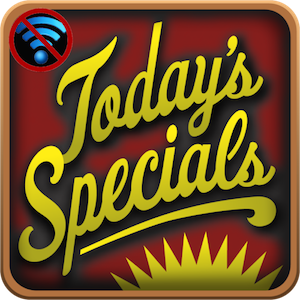
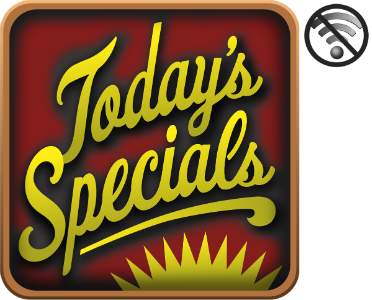
recent round of changes for production

diff --git a/public/js/_views.js b/public/js/_views.js
@@ -84,7 +84,9 @@ $(function() {
 					if(toType(loader) != 'undefined') {
 						loader.destroy();
 					}
-					$('#settings-button img').attr('src','/img/TSA_Icon.png');
+					// Set the icon indicator
+					$('#settings-button').show();
+					$("#settings-button-no-con").hide();
 					
 				},
 				error: function(model, response, options) {
@@ -95,6 +97,9 @@ $(function() {
     						destroy: true
     					});
 					}
+					// Set the icon indicator
+					$('#settings-button-no-con').show();
+                    $("#settings-button").hide();
 					// load the specials from cache
 					var cachedSpecials = $.parseJSON(localStorage.getItem('k0skSpecialsCache'));
 					model.set({
@@ -887,7 +892,8 @@ $(function() {
                             message: 'Error: Venue request encountered an error',
                             destroy: true
                         });
-                        $('#settings-button img').attr('src','/img/TSA_Icon-noconn.png');
+                        $('#settings-button-no-con').show();
+						$("#settings-button").hide();
                     }
                 });
                 

diff --git a/public/css/style.css b/public/css/style.css
@@ -42,9 +42,17 @@ body {
 #header-left #ts-logo {
   cursor: pointer;
 }
-#header-left #settings-button {
+#header-left #settings-button,
+#header-left #settings-button-no-con {
   margin-left: 10%;
   margin-top: 20%;
+}
+#header-left #settings-button img,
+#header-left #settings-button-no-con img {
+  max-width: 125%;
+}
+#header-left #settings-button-no-con {
+  display: none;
 }
 #header-middle {
   text-align: center;

diff --git a/public/js/_main.js b/public/js/_main.js
@@ -102,7 +102,7 @@ $(function () {
     $('#page-headline h1').fitText(1.2);
     
     // Catch the logo click
-    $('#ts-logo').click(function() {
+    $('#ts-logo, #ts-logo-noconn').click(function() {
         $('#settings-block').modal({
             keyboard: false
         });
